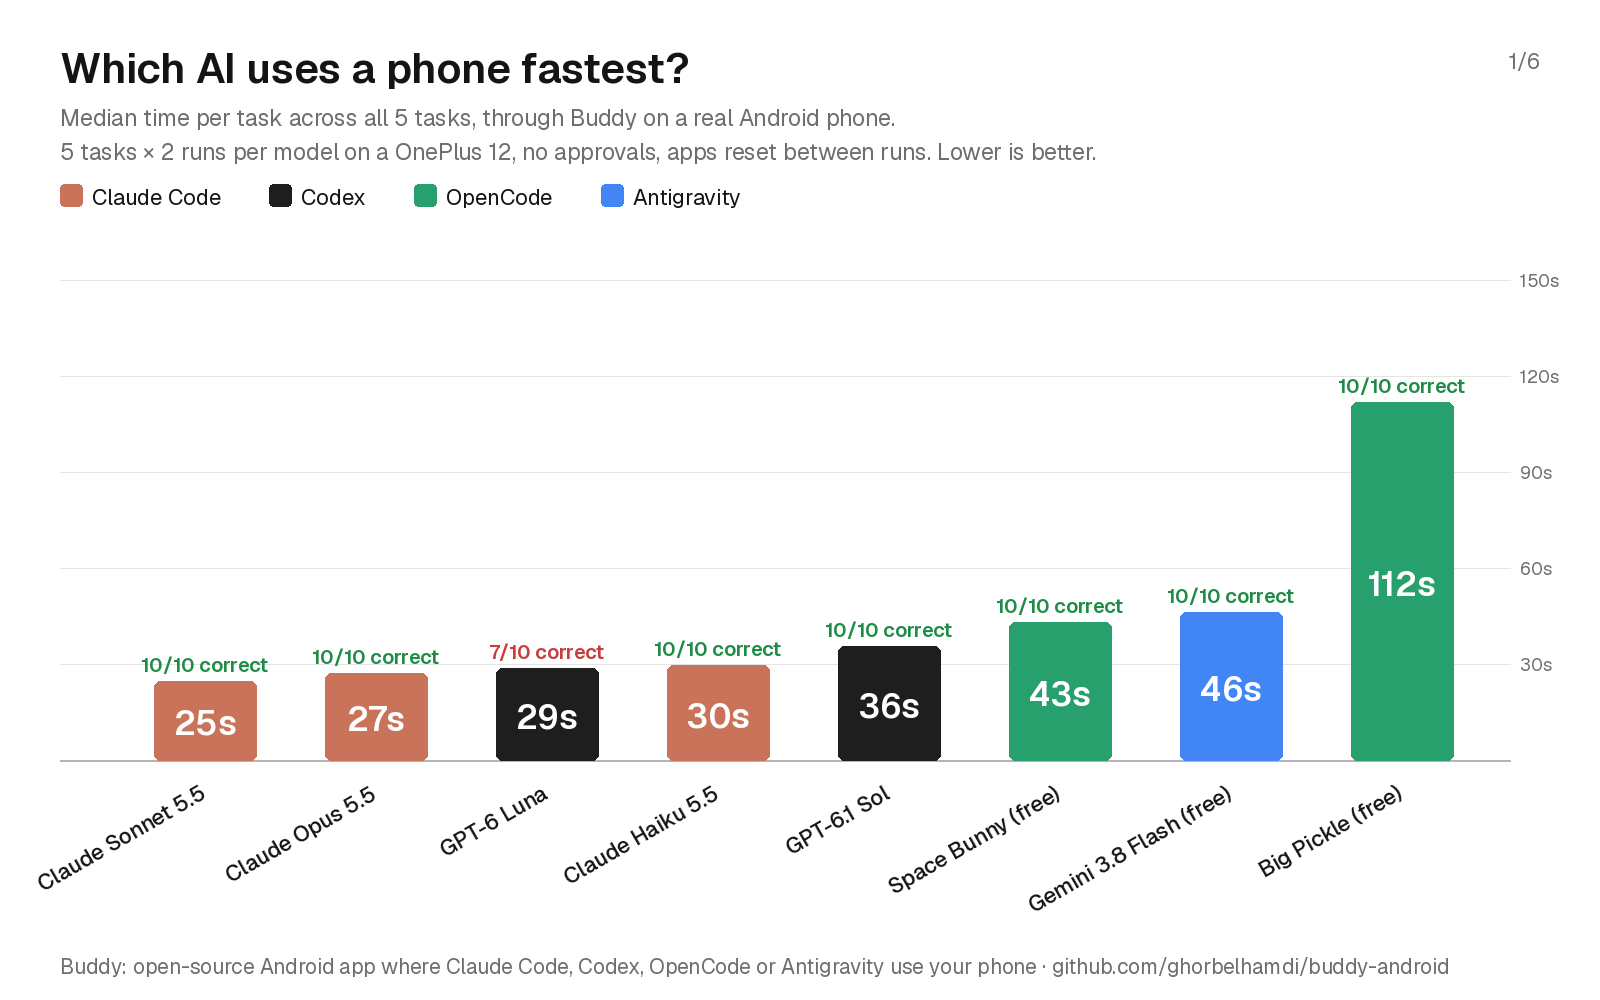
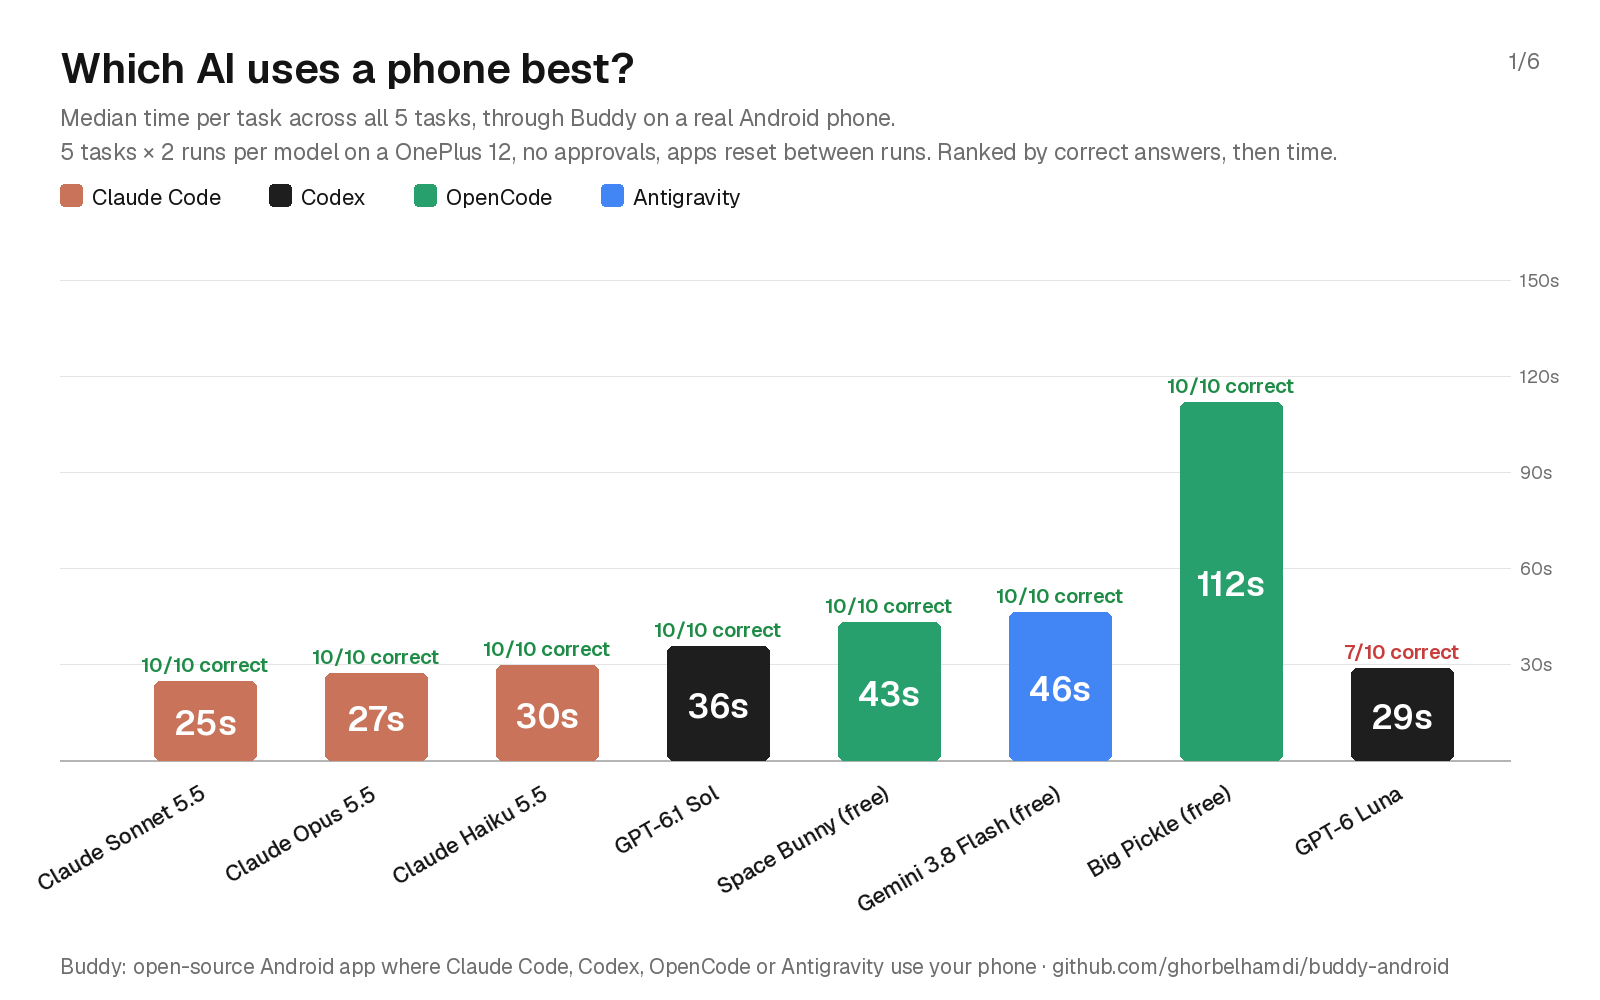
Benchmark: rank by correct answers first, then time
A wrong answer counts worse than a slow one: GPT-6 Luna (7/10) now comes last in the table and charts instead of
third. All times stay as they were. Chart title: "Which AI uses a phone best?".

Claude-Session: https://claude.ai/code/session_01Sz8Aewz1mUApAuyDmVa6LF

diff --git a/benchmark/README.md b/benchmark/README.md
@@ -24,18 +24,18 @@ How fast and how reliably different models operate a real Android phone through 
 
 ## Results
 
-Median time per task over all 10 runs:
+Ranked by correct answers first, then median time per task over all 10 runs (a wrong answer counts worse than a slow one):
 
 | Model | Agent | Median | Correct | Median steps |
 |---|---|---|---|---|
 | Claude Sonnet 5.5 | Claude Code | 25 s | 10/10 | 12 |
 | Claude Opus 5.5 | Claude Code | 27 s | 10/10 | 8 |
-| GPT-6 Luna | Codex | 29 s | 7/10 | 11 |
 | Claude Haiku 5.5 | Claude Code | 30 s | 10/10 | 14 |
 | GPT-6.1 Sol | Codex | 36 s | 10/10 | 13 |
 | Space Bunny (free) | OpenCode | 43 s | 10/10 | 15 |
 | Gemini 3.8 Flash Medium (free) | Antigravity | 46 s | 10/10 | 11 |
 | Big Pickle (free) | OpenCode | 112 s | 10/10 | 12 |
+| GPT-6 Luna | Codex | 29 s | 7/10 | 11 |
 
 Answers were checked by hand. Luna's misses: twice it gave today's high and low instead of the current temperature, and once it couldn't get Calculator to compute and answered from its own math. For YouTube the agent's own report that the video plays was accepted.
 
